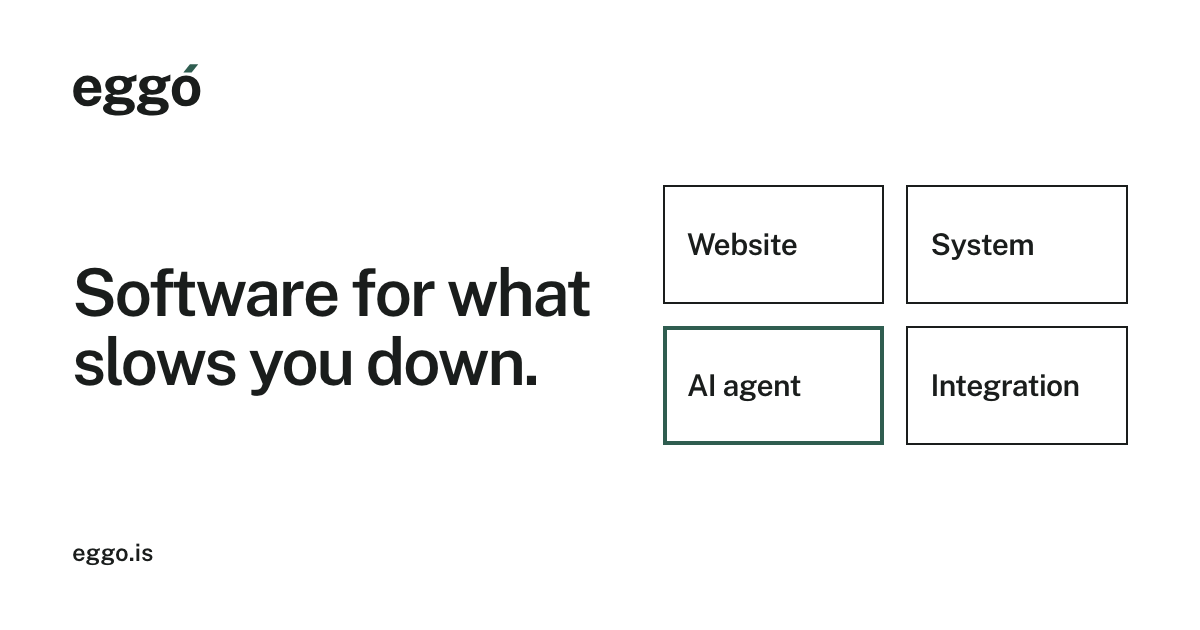
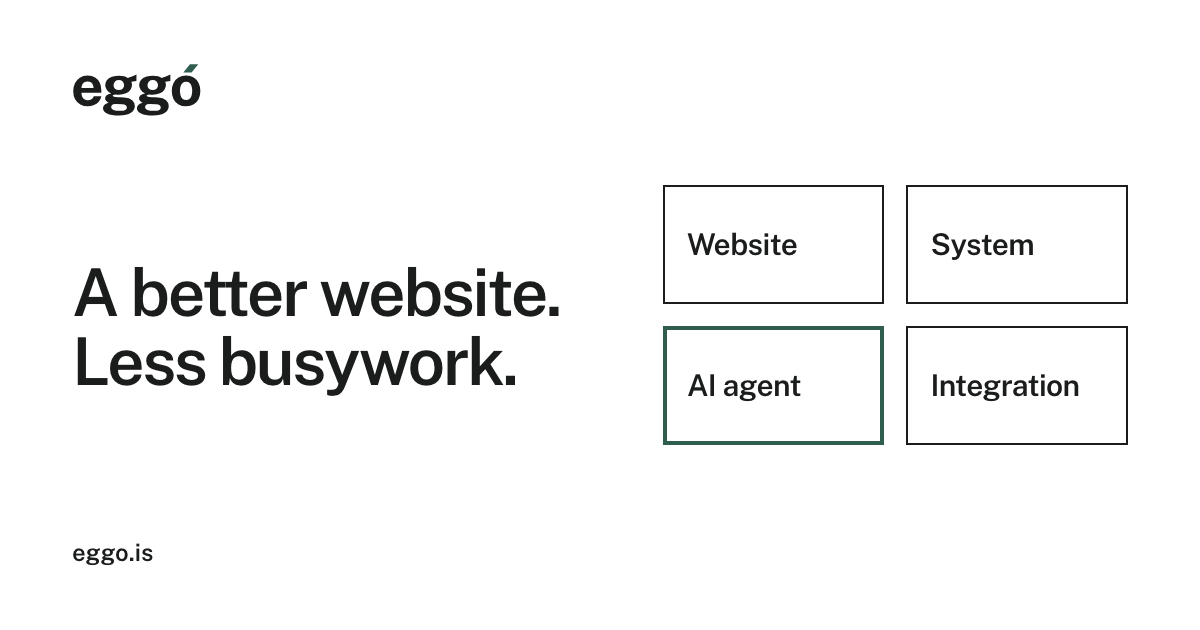
copy: hero headline 'Betri vefur. Minni handavinna.', one sentence per line

Changed region(s): [[0.0617, 0.4222, 0.4933, 0.5127], [0.0617, 0.5429, 0.4625, 0.6333]]

diff --git a/src/components/Hero.tsx b/src/components/Hero.tsx
@@ -24,8 +24,8 @@ export function Hero({ picked, route, onToggle, onSend }: Props) {
   return (
     <div {...stylex.props(ui.wrap, styles.hero)}>
       <h1 {...stylex.props(styles.title)}>
-        {t.hero.titleStart}
-        {t.hero.titleEm}
+        <span {...stylex.props(styles.titleLine)}>{t.hero.titleStart}</span>
+        <span {...stylex.props(styles.titleLine)}>{t.hero.titleEm}</span>
       </h1>
       <div {...stylex.props(styles.top)}>
         <p {...stylex.props(styles.lead)}>{t.hero.lead}</p>
@@ -159,6 +159,8 @@ const styles = stylex.create({
     textWrap: "balance",
     maxWidth: "12em",
   },
+  /** The headline is two short sentences, one per line, so it never breaks mid-sentence. */
+  titleLine: { display: "block" },
   lead: {
     margin: 0,
     fontSize: type.lead,

diff --git a/src/i18n/is.ts b/src/i18n/is.ts
@@ -53,8 +53,8 @@ export const is = {
   hero: {
     eyebrow: "Hugbúnaðarlausnir",
     status: "Laus fyrir ný verkefni",
-    titleStart: "Hugbúnaður fyrir ",
-    titleEm: "það sem tefur.",
+    titleStart: "Betri vefur. ",
+    titleEm: "Minni handavinna.",
     sub: "Það sem tekur tíma í dag gengur sjálft á morgun.",
     lead: "Vefsíður, innri kerfi, AI agents og tengingar fyrir lítil og meðalstór fyrirtæki, og lagfæringar sem taka einn dag. Fast verð, eitthvað nothæft í hverri viku, og þú átt lausnina.",
     cta: "Hafa samband",

diff --git a/src/i18n/en.ts b/src/i18n/en.ts
@@ -23,8 +23,8 @@ export const en: Dict = {
   hero: {
     eyebrow: "Software solutions",
     status: "Taking new projects",
-    titleStart: "Software for ",
-    titleEm: "what slows you down.",
+    titleStart: "A better website. ",
+    titleEm: "Less busywork.",
     sub: "What takes time today runs itself tomorrow.",
     lead: "Websites, internal systems, AI agents and integrations for small and medium businesses, and fixes that take a day. Fixed price, something usable every week, and you own the solution.",
     cta: "Get in touch",

diff --git a/scripts/brand-images.ts b/scripts/brand-images.ts
@@ -65,7 +65,7 @@ h1 { font-size: 66px; font-weight: 600; line-height: 1.04; letter-spacing: -.035
 .name { font-size: 30px; font-weight: 600; letter-spacing: -.02em; }
 </style>
 <div class="og"><div class="left">${mark(52)}
-<h1>${t.hero.titleStart}${t.hero.titleEm}</h1>
+<h1>${t.hero.titleStart}<br>${t.hero.titleEm}</h1>
 <p class="label"><b>${brand.url.replace("https://", "")}</b></p></div>
 <div class="grid">${boxes(t, "03")}</div></div>`;
 

diff --git a/scripts/verify-prerender.ts b/scripts/verify-prerender.ts
@@ -5,8 +5,8 @@
 import { readFileSync } from "node:fs";
 
 const pages: Record<string, { lang: string; h1: string }> = {
-  "dist/client/index.html": { lang: "is", h1: "Hugbúnaður fyrir" },
-  "dist/client/en/index.html": { lang: "en", h1: "Software for" },
+  "dist/client/index.html": { lang: "is", h1: "Betri vefur." },
+  "dist/client/en/index.html": { lang: "en", h1: "A better website." },
 };
 
 let failed = false;

diff --git a/docs/DESIGN-SYSTEM.md b/docs/DESIGN-SYSTEM.md
@@ -11,7 +11,7 @@ Shipped 2026-10-15. Same content, structure, symptom picker and accessibility as
 - **Work page** (`/verk`, `/en/verk`, `WorkCases`; added 2026-10-16 to shorten the homepage, which now shows two cases from `featuredCaseIds` and links to the rest): built with the taste skill's "name as a monument" direction, palette and type kept. Each case is led by its one number at `type.monument` (clamp 72–144px, 64–88 on phones), the largest type on the site; cases alternate sides on a 12-column grid with 96px between them. Beside each number: the case name as an underlined link to the full story (↗), client and part, then problem, built, stack and outcome, ending on the outcome. The page closes on an ink field (ground and ink swapped, so it turns light in dark mode) with "Hvað tefur hjá þér?" at display size and an inverse button to the work order. Skipped from the dealt sheet, on purpose: photographs, the marquee and the tiled hero.
 - **Motion** (one thread, expo-out `cubic-bezier(.16,1,.3,1)`): ticking a symptom draws the tick (180ms), unrolls the new line into the summary from its top edge (320ms, clip-path + 6px), and lights that part's square in its drawing down the page (400ms), so the picker, the summary and the services list read as one thing. Buttons nudge their arrow 3px on hover. The theme switch reveals the new theme as a circle from the switch (View Transitions, 520ms). Reduced motion removes all of it.
 - **Browser surfaces:** selection, caret, native controls and scrollbars take the palette (`--selection` on body feeds `::selection` in global.css).
-- **Copy:** the road metaphors are swapped for plain words ("Hugbúnaður fyrir það sem tefur.", "Það sem ég smíða", "Svona vinn ég", "Tillaga").
+- **Copy:** the road metaphors are swapped for plain words ("Betri vefur. Minni handavinna." (each half on its own line), "Það sem ég smíða", "Svona vinn ég", "Tillaga").
 - **Phone suggestion bar** (`PhoneBar`): once something is ticked, a bar at the bottom shows "Tillaga · n", the part names and "Fá verð →" while neither the summary card nor the work order is on screen. Unmounted, not hidden, when not needed.
 - **Wordmark** (`Wordmark`, geometry in `src/design/wordmark.ts`): "eggo" drawn from Public Sans Bold outlines, tracked in by 70 units, with the ó's accent replaced by a slanted block in the accent colour (chosen 2026-10-15 over plain, tight, boxed and mark-plus-word versions). Letters take `currentColor`; the block goes `currentColor` in forced colours. 26px tall in the top bar, 24 on phones. No separate symbol: the favicon's 2×2 of boxes does that job. The geometry is generated with fontTools; regenerate it if the font file changes.
 - **Share images and icons:** `bun scripts/brand-images.ts` renders the OG images (headline plus the four parts as boxes, 03 in the accent), the social logo and the touch icon from the dictionaries, light tokens and self-hosted fonts. The favicon is the same 2×2 of boxes with one filled, and follows the OS theme.
